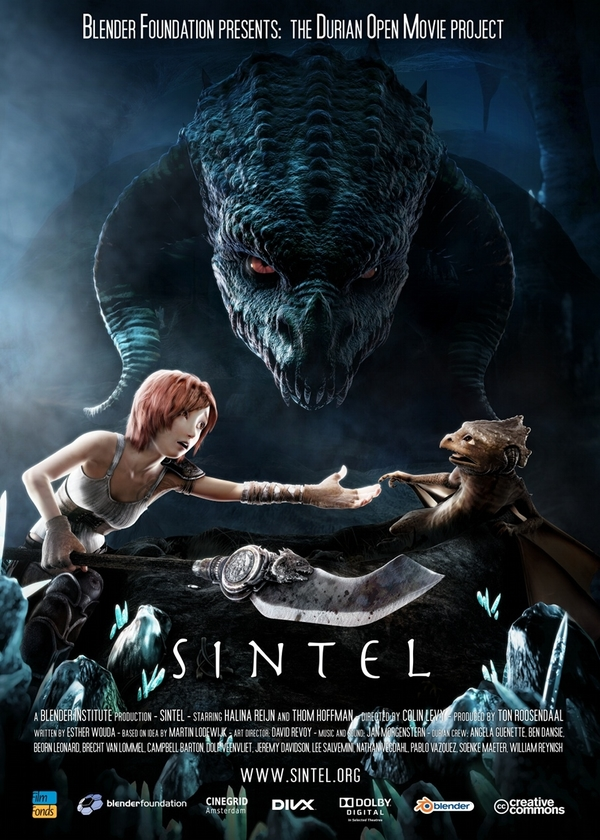
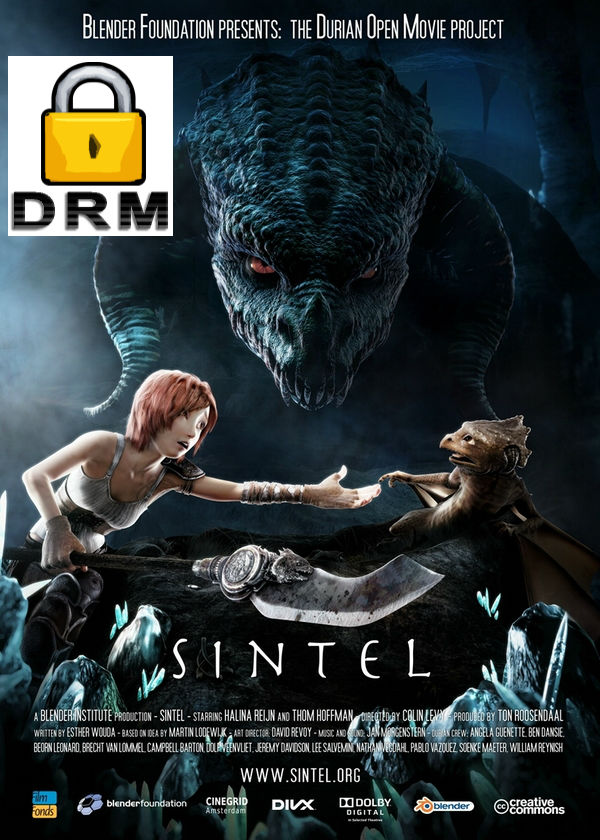
DRM Widevine con autenticacion por Cookie

Changed region(s): [[0.0, 0.0619, 0.3, 0.2786]]

diff --git a/myapp.js b/myapp.js
@@ -2,6 +2,7 @@
 
 
 var manifestUri = null;
+var licenseServer = '//cwip-shaka-proxy.appspot.com/cookie_auth';
 
 function selectLinkByIndex(indice){
   var resultado;
@@ -10,7 +11,7 @@ function selectLinkByIndex(indice){
      resultado='//storage.googleapis.com/shaka-demo-assets/angel-one/dash.mpd';
      break;
     case 1:
-    resultado='//storage.googleapis.com/shaka-demo-assets/sintel/dash.mpd';
+    resultado='//storage.googleapis.com/shaka-demo-assets/sintel-widevine/dash.mpd';
     break;
     case 2:
     resultado='//storage.googleapis.com/shaka-demo-assets/tos-ttml/dash.mpd';
@@ -53,6 +54,21 @@ function initPlayer() {
 
   // Listen for error events.
   player.addEventListener('error', onErrorEvent);
+
+  //Configuramos el servidor de licencias de DRM Widevine de Google
+  player.configure({
+    drm: {
+      servers: { 'com.widevine.alpha': licenseServer }
+    }
+  });
+
+  player.getNetworkingEngine().registerRequestFilter(function(type, request) {
+    if (type == shaka.net.NetworkingEngine.RequestType.LICENSE) {
+      //Permite que la aplicacion envie las credenciales (cookies) a terceras partes (al servidor de licencias)
+      //Es necesario que el servidor de licencias tambien acepte cookies de terceras partes (Access-Control-Allow-Credentials)
+      request.allowCrossSiteCredentials = true;
+    }
+  });
 
   // Try to load a manifest.
   // This is an asynchronous process.

diff --git a/estilos.css b/estilos.css
@@ -2,9 +2,14 @@ header{
 
 }
 
+footer{
+	text-align: center;
+	padding: 20px;
+}
+
 section{
-text-align: center;
-padding: 50px;
+	text-align: center;
+	padding: 50px;
 }
 
 video {

diff --git a/index.html b/index.html
@@ -37,5 +37,9 @@
   </script>
 
     </section>
+  <footer >
+<input type="button" value="Return to menu" onClick="location.href=location.href">
+  </footer>
+
   </body>
 </html>

diff --git a/README.md b/README.md
@@ -1,1 +1,6 @@
 # p-project
+
+Para reproducir el contenido de ejemplo con DRM, es necesario tener la cookie que representa las credenciales del usuario.
+
+* Para obtenerla: http://cwip-shaka-proxy.appspot.com/set_cookie
+* Para borrarla: http://cwip-shaka-proxy.appspot.com/delete_cookie
